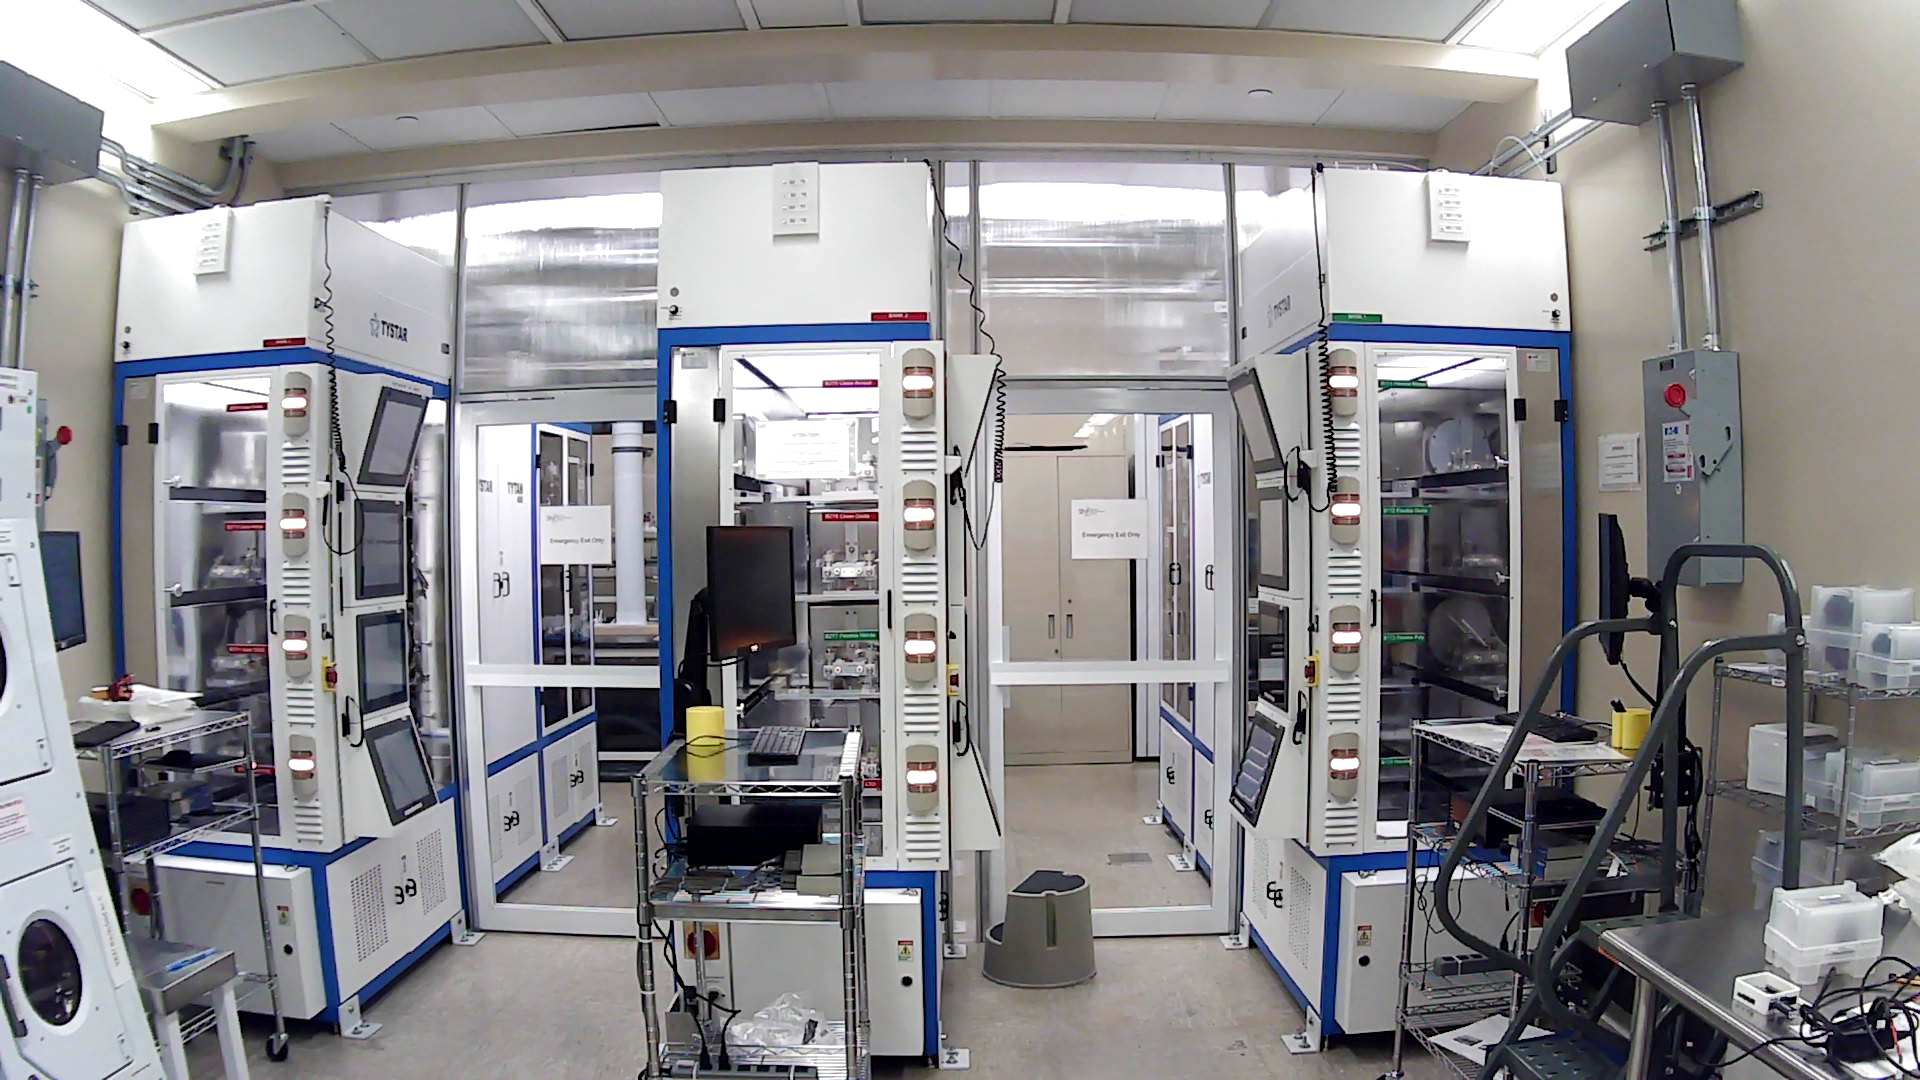
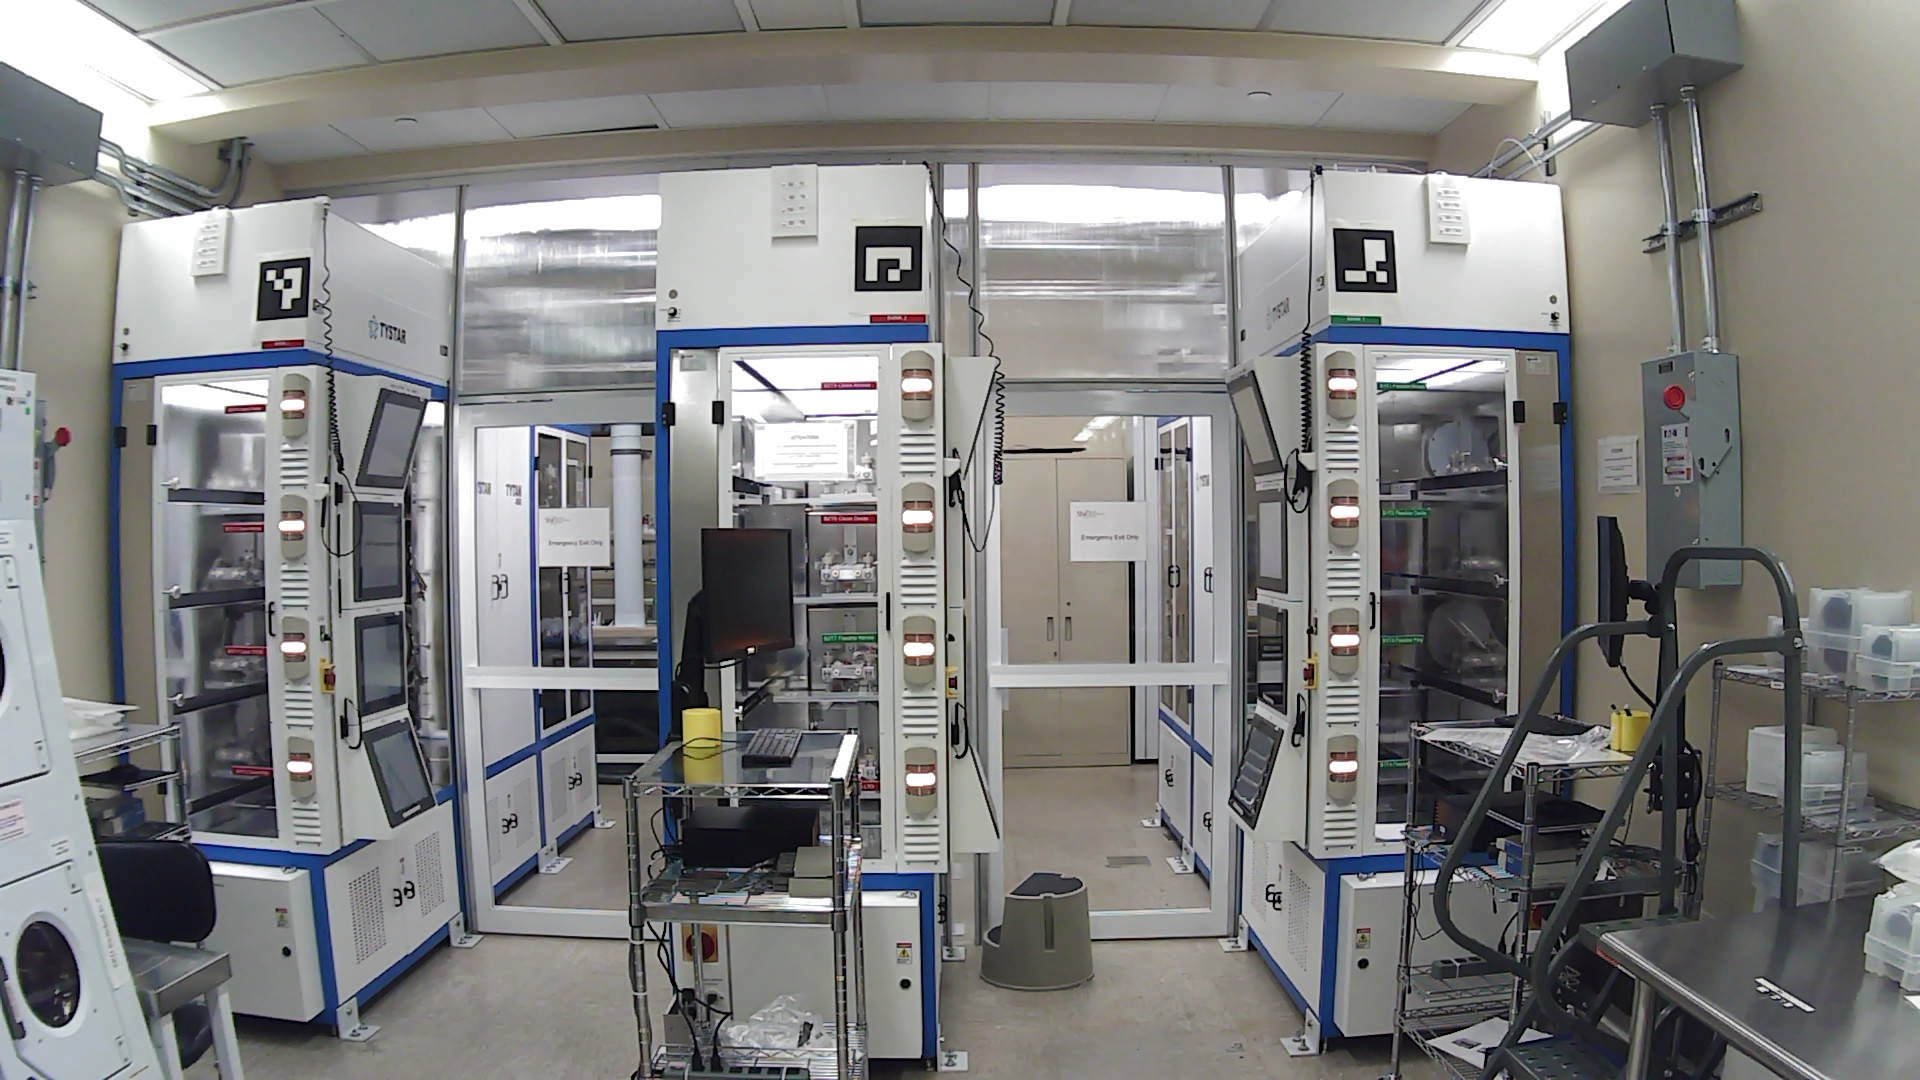
added aruco codes as reference points, works 10x better woohoogit commit

diff --git a/colorDetection/main.py b/colorDetection/main.py
@@ -2,32 +2,52 @@ import cv2
 import numpy as np
 import os
 import time
+import cv2.aruco as aruco
 
 #lets try a dynamic cropping and fall into static cropping if it does not work too well
+
+def arucocap():
+    frame = cv2.imread("images/highres.jpg")
+
+    allowed_markers = {0, 1, 2}
+
+    dictionary = cv2.aruco.getPredefinedDictionary(cv2.aruco.DICT_4X4_50)
+    parameters = cv2.aruco.DetectorParameters()
+    detector = cv2.aruco.ArucoDetector(dictionary, parameters)
+
+    markerCorners, markerIds, rejectedCandidates = detector.detectMarkers(frame)
+
+    reference_coord = {}
+
+    if markerIds is not None:
+        for id in markerIds:
+            if id[0] in allowed_markers:
+                print(f"markerId: {id[0]}")
+                corners = markerCorners[id[0]][0]
+                for j, (x, y) in enumerate(corners):
+                    if id[0] == 0 and j == 2:
+                        reference_coord[0] = [int(x), int(y)]
+                    elif id[0] == 1 and j == 2:
+                        reference_coord[1] = [int(x), int(y)]
+                    elif id[0] == 2 and j == 3:
+                        reference_coord[2] = [int(x), int(y)]
+                        
+            else:
+                print(f"ignoring marker: {id[0]}")
+        cv2.aruco.drawDetectedMarkers(frame, markerCorners, markerIds)
+
+    return reference_coord
+
 def cropStaticFurnaces(imagePath, tube):
     readImage = cv2.imread(imagePath)
-    dimensionArray = [
-    [285, 378, 25, 55],
-    [283, 500, 25, 55],
-    [284, 620, 25, 55],
-    [291, 732, 25, 55],
-    [904, 354, 25, 55],
-    [902, 485, 25, 55],
-    [904, 617, 25, 55],
-    [906, 750, 25, 55],
-    [1327, 354, 25, 55],
-    [1331, 484, 25, 55],
-    [1332, 606, 25, 55],
-    [1331, 736, 25, 55]
-    ] 
+    static_points = arucocap()
 
-
-    x, y, w, h = dimensionArray[tube][0], dimensionArray[tube][1], dimensionArray[tube][2], dimensionArray[tube][3]
-
+    print(static_points)
+    h = 55, w = 25
+    y, x = static_points[0][]
     cropped = readImage[y: y+h, x: x+w]
-    # cropped = mitigate_bleeding(cropped)
-    cv2.imwrite(f"preprocess/croppedimg{tube}.jpg",  cropped)
-    return cropped
+    # cv2.imwrite(f"preprocess/croppedimg{tube}.jpg",  cropped)
+    # return cropped
 
 #processes the image into black and white
 def detectLight(image, tube):
@@ -208,6 +228,8 @@ def capture1080p():
 
 
 
+
+
 # img = cv2.imread("images/stack.jpeg")
 # detectLight(img)
 # processedPath = "preprocess/processedImage.png"
@@ -219,18 +241,21 @@ def capture1080p():
 # capture1080p()
 # configure_points()
 
-for x in range(1):
-    capture1080p()
-    capture1080p()
-    capture1080p()
-    for i in range(0, 12):
-        croppedImg = cropStaticFurnaces("images/highres.jpg", i)
-        filePath = detectLight(croppedImg, i)
-        # filePath = f"preprocess/processedImage{i}.png"
-        classifyColor(filePath, i)
+# for x in range(1):
+#     capture1080p()
+#     capture1080p()
+#     capture1080p()
+#     for i in range(0, 12):
+#         croppedImg = cropStaticFurnaces("images/highres.jpg", i)
+#         filePath = detectLight(croppedImg, i)
+#         # filePath = f"preprocess/processedImage{i}.png"
+#         classifyColor(filePath, i)
     
-    time.sleep(5)
+#     time.sleep(5)
 
+capture1080p
+capture1080p()
+cropStaticFurnaces("images/highres.jpg",0)
 
 # for i in range(5):
 #     capture1080p(i)
